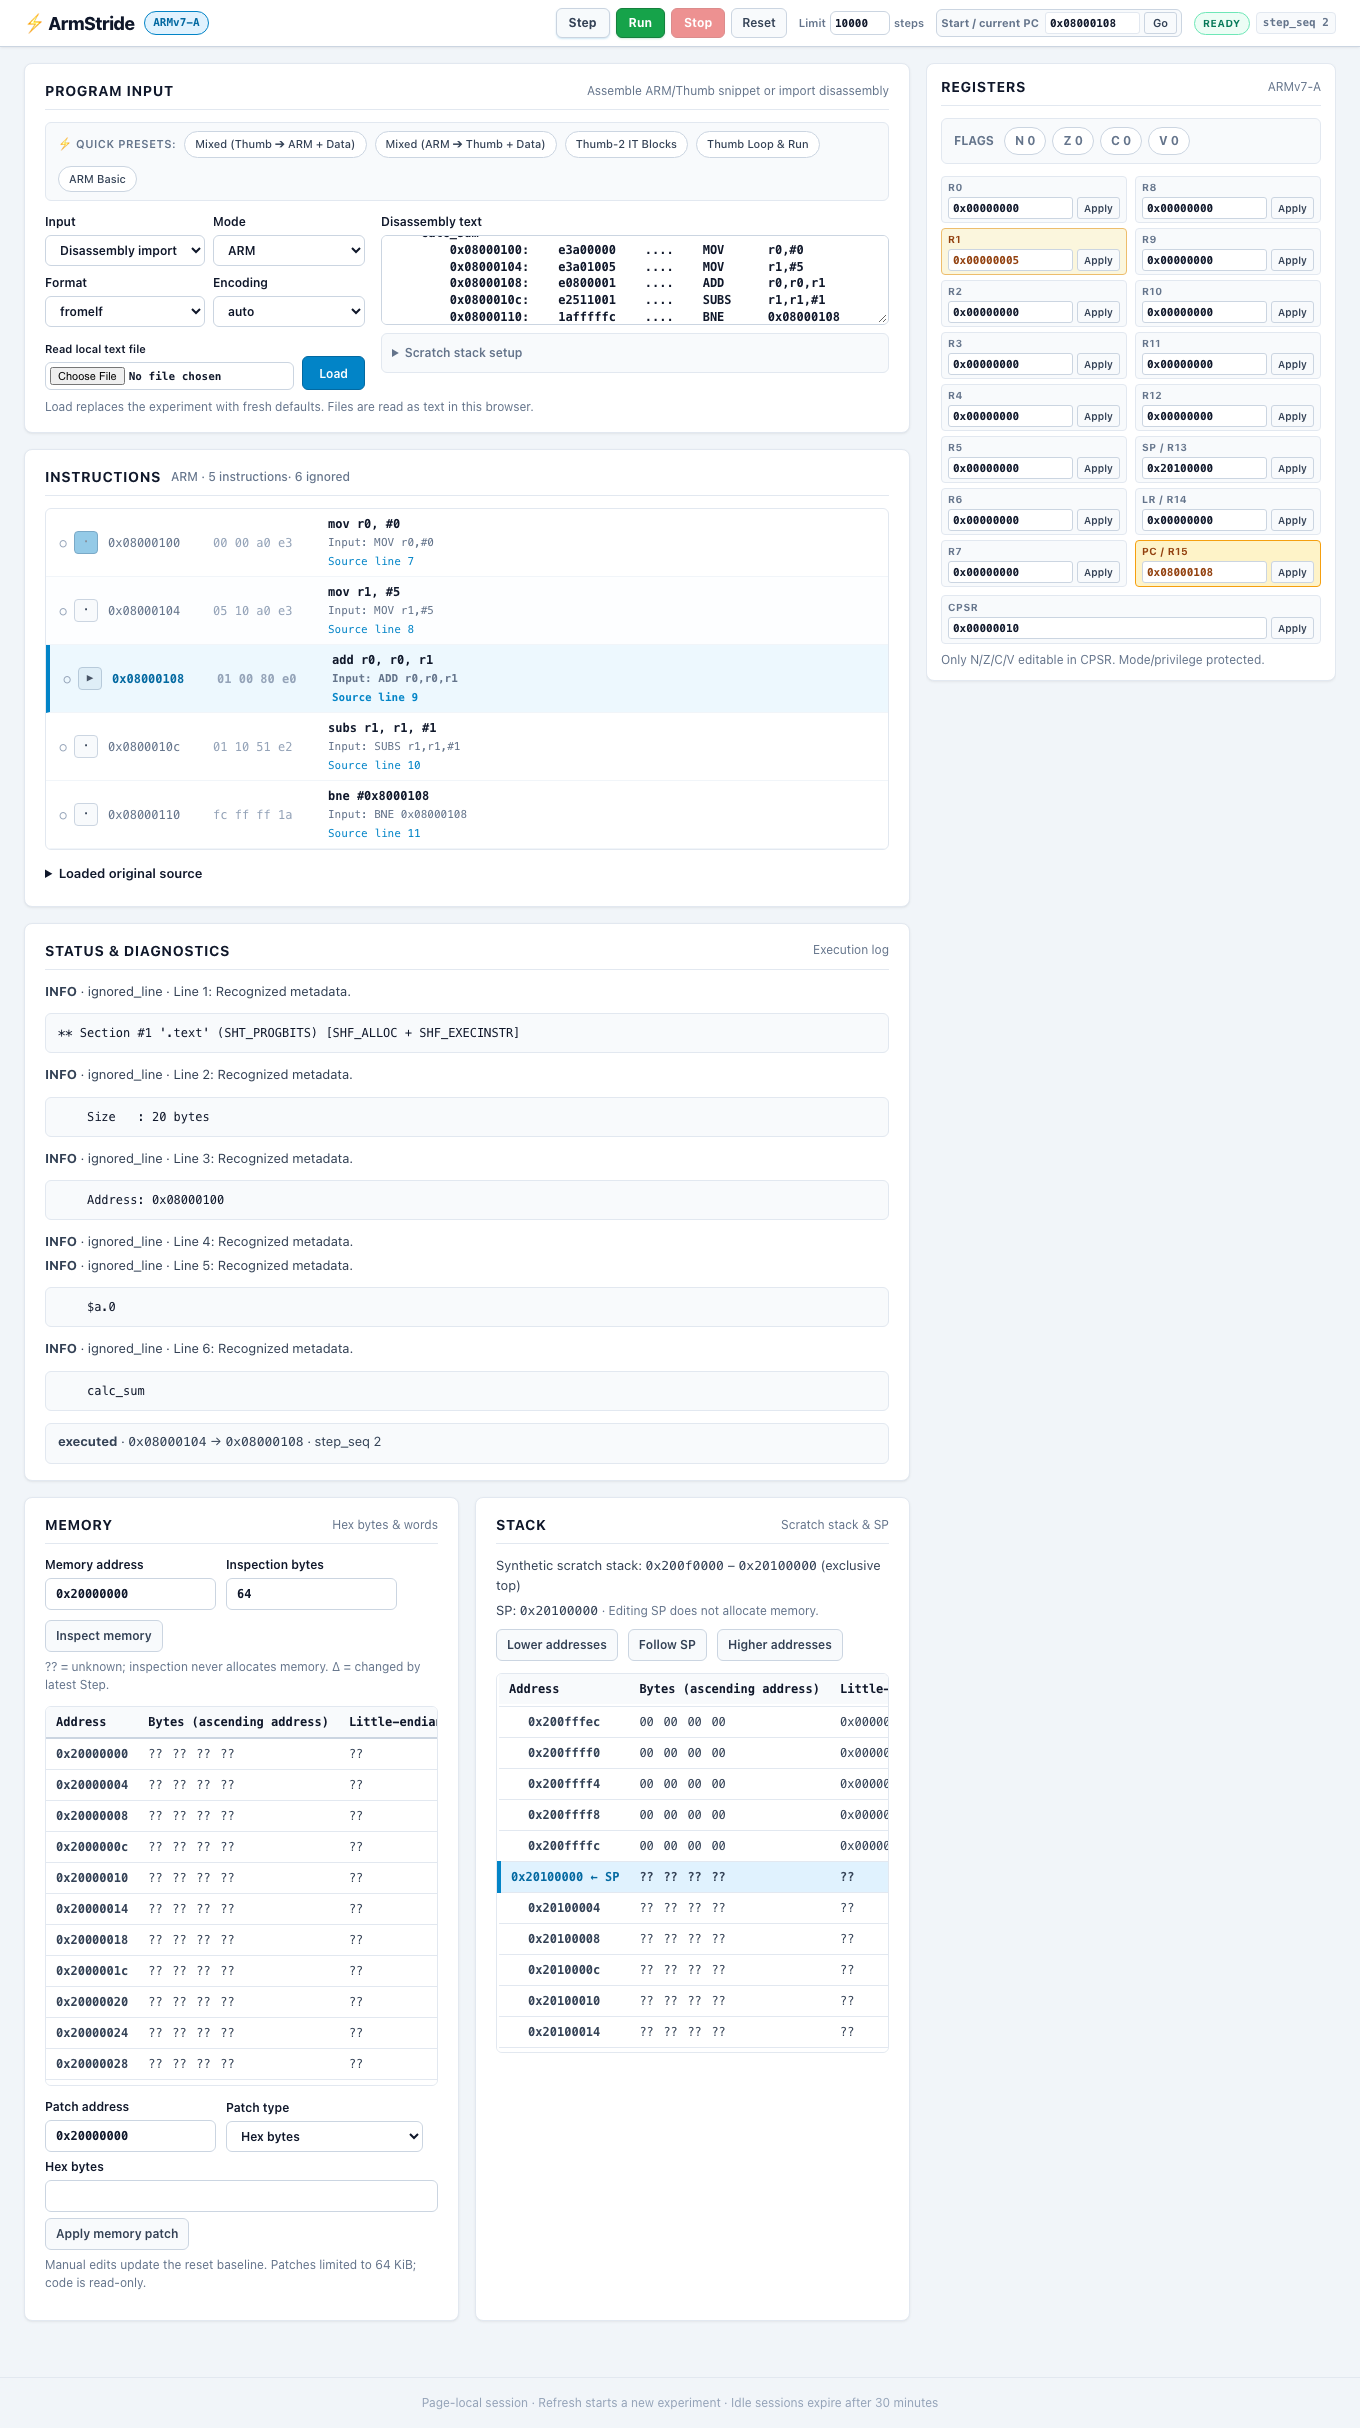
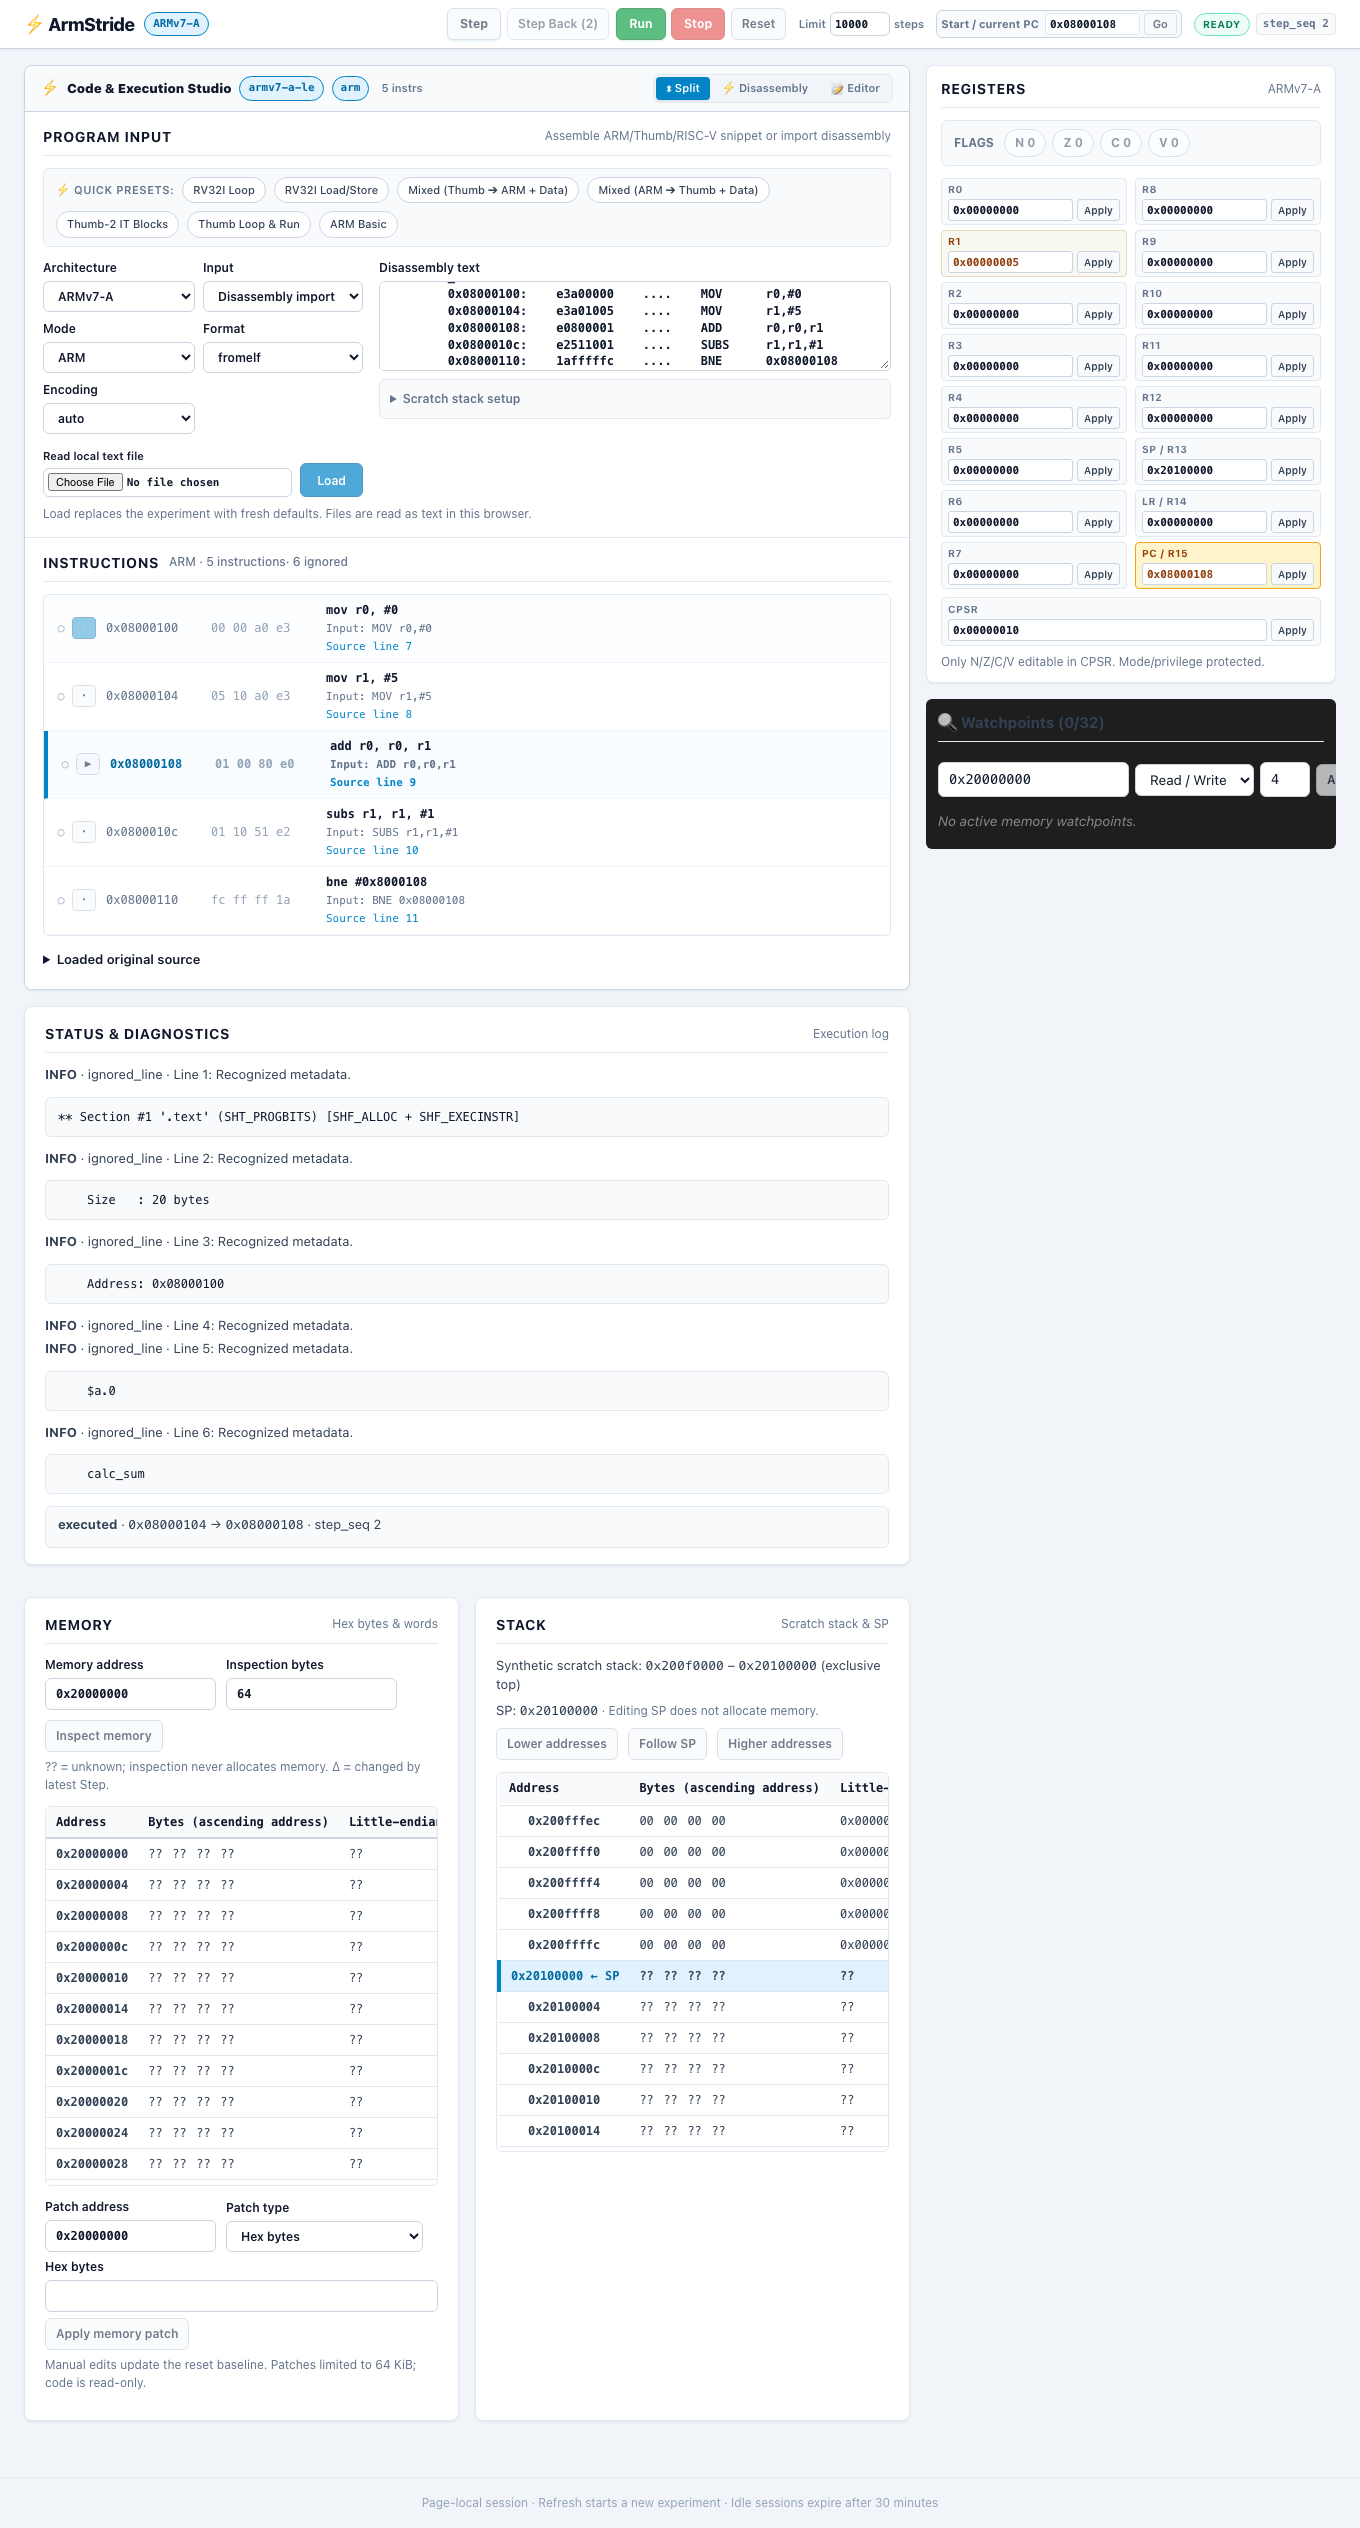
docs(readme): update visual walkthrough screenshots with modern P2/P3 UI and RISC-V workspace

diff --git a/scripts/generate_screenshots.spec.ts b/scripts/generate_screenshots.spec.ts
@@ -84,4 +84,26 @@ ldr r0, [r1, #4]`;
       fullPage: true,
     });
   });
+
+  test('capture 4. RISC-V (RV32I) Multi-ISA Workspace', async ({ page }) => {
+    await page.setViewportSize({ width: 1380, height: 920 });
+    await page.goto('/');
+    await page.locator('main[aria-busy="false"]').waitFor();
+
+    // Load RV32I Loop preset
+    await page.getByRole('button', { name: 'RV32I Loop', exact: true }).click();
+    await page.locator('main[aria-busy="false"]').waitFor();
+
+    const stepBtn = page.getByRole('button', { name: 'Step', exact: true });
+    await stepBtn.click();
+    await page.locator('main[aria-busy="false"]').waitFor();
+    await stepBtn.click();
+    await page.locator('main[aria-busy="false"]').waitFor();
+    await stepBtn.click();
+    await page.locator('main[aria-busy="false"]').waitFor();
+
+    await page.screenshot({
+      path: path.join(ASSETS_DIR, 'feature_riscv.png'),
+    });
+  });
 });

diff --git a/frontend/src/App.svelte b/frontend/src/App.svelte
@@ -48,7 +48,7 @@
 <header class="app-header toolbar" aria-label="Execution controls">
   <div class="header-brand">
     <h1>⚡ ArmStride</h1>
-    <span class="badge">ARMv7-A</span>
+    <span class="badge">{session.state?.profile === 'rv32i-le' ? 'RV32I' : 'ARMv7-A'}</span>
   </div>
   <div class="header-controls">
     <div class="action-buttons">

diff --git a/docs/VISUAL_GUIDE.md b/docs/VISUAL_GUIDE.md
@@ -85,12 +85,32 @@ ArmStride enforces **strict memory safety**. Access to uninitialized or unmapped
    - Clear diagnostic message: *"Previous state restored; baseline preserved"*.
 5. You can patch the required memory using the **Memory Patch** tool and retry execution safely.
 
+## 4. RISC-V (RV32I) Multi-ISA Workspace
+
+When switching the architecture to **RISC-V (RV32I)**, ArmStride automatically adapts its entire workspace according to the architecture profile:
+
+![RISC-V RV32I Workspace](../docs/assets/feature_riscv.png)
+
+### Key RV32I Features in UI:
+1. **Dynamic Architecture & Mode Adapters**:
+   - Choosing `RISC-V (RV32I)` locks the execution mode to `RV32I`.
+   - Dedicated quick presets are available: **`RV32I Loop`** and **`RV32I Load/Store`**.
+   - Top banner displays the active profile badge (`RV32I`).
+2. **32 Integer Registers Grid (`x0`–`x31` + `PC`)**:
+   - Each register is clearly annotated with its standard RISC-V ABI alias (e.g. `X0 (ZERO)`, `X1 (RA)`, `X2 (SP)`, `X10 (A0)`–`X17 (A7)`, `X5 (T0)`–`X7 (T2)`, `X28 (T3)`–`X31 (T6)`).
+   - **`x0` (zero) Immutability**: Register `x0` is locked and disabled for user editing. Instruction writes to `x0` produce no state modifications or delta events.
+3. **Suppression of ARM Status Bars**:
+   - CPSR and condition flags (`N`, `Z`, `C`, `V`) are cleanly hidden from both the UI and API response envelopes.
+4. **Clean Environment Traps**:
+   - `ECALL` and `EBREAK` stop execution cleanly with informative stop reasons (`environment_call` or `breakpoint_trap`) without native engine crashes.
+
 ---
 
-## 4. Useful Keyboard Shortcuts
+## 5. Useful Keyboard Shortcuts
 
 | Shortcut | Action | Description |
 | :--- | :--- | :--- |
+| **`F5`** | **Run** | Run instructions until breakpoint, stop, or step limit |
 | **`F7`** or **`F8`** | **Step** | Advance simulation by one instruction |
 | **`F9`** | **Reset** | Reset registers and memory to baseline |
 | **`Enter`** | **Apply** | Commit edited register or memory value |

diff --git a/README.md b/README.md
@@ -71,6 +71,11 @@ Accessing unmapped memory (`??`) immediately pauses simulation and reports the e
 
 <img src="docs/assets/feature_fault_rollback.png" alt="Memory Fault and Rollback" width="100%" />
 
+### 4. RISC-V (RV32I) Multi-ISA Workspace
+Switch architecture to **RISC-V (RV32I)** to debug 32-bit integer RISC-V snippets. The UI automatically renders the full 32-register grid (`x0`–`x31`) with standard ABI names (`zero`, `ra`, `sp`, `a0`–`a7`, `t0`–`t6`, `s0`–`s11`), locks immutable `x0 (zero)` to 0, and hides ARM-specific status bars (CPSR and NZCV flags).
+
+<img src="docs/assets/feature_riscv.png" alt="RISC-V RV32I Workspace" width="100%" />
+
 ---
 
 ## 🚀 Quickstart
